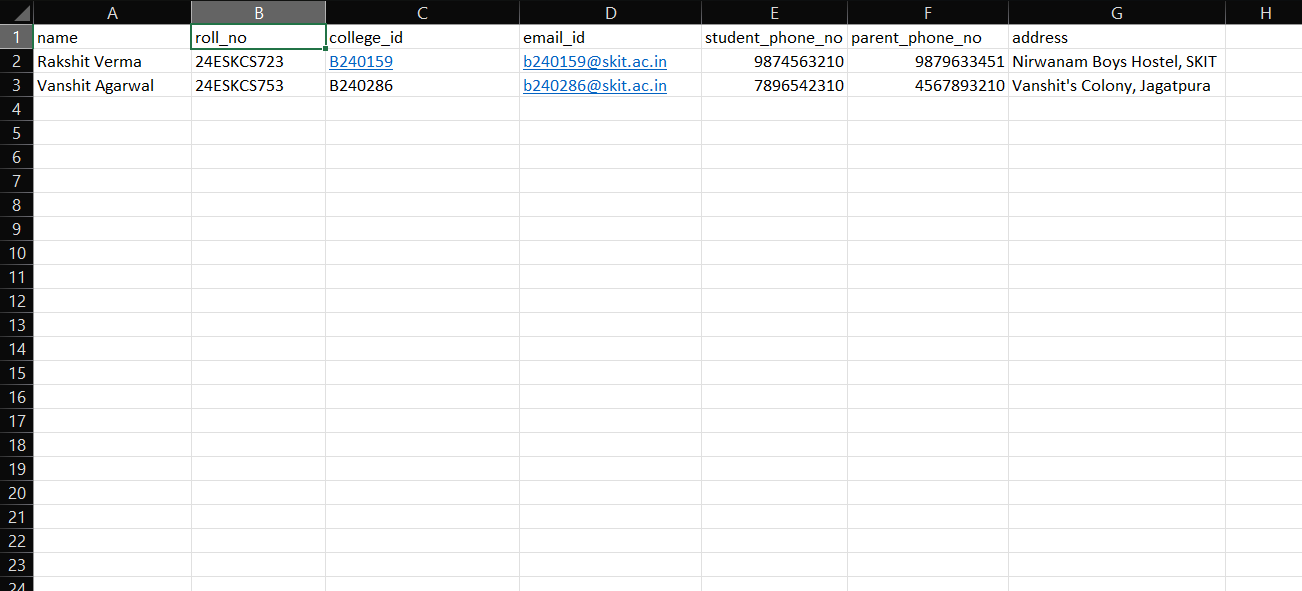
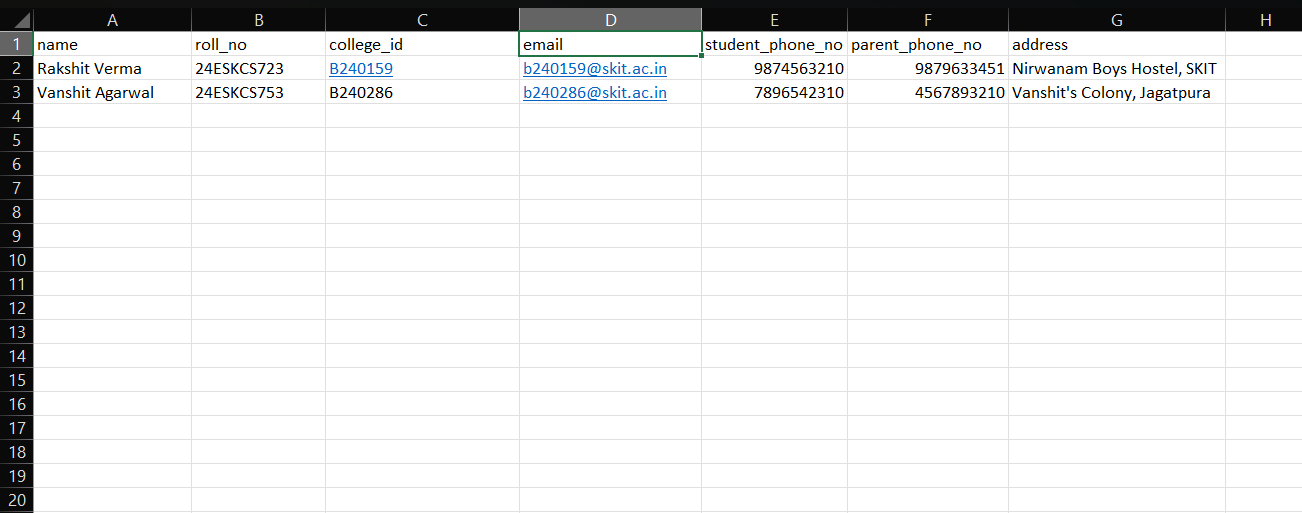
Made changes in upload excel format and updated their corresponding images respectively

Changed region(s): [[0.0, 0.0, 1.0, 1.0]]

diff --git a/firstWebsite/views.py b/firstWebsite/views.py
@@ -405,9 +405,9 @@ def upload_excel(request, pk):
             columns=imported_data.headers
         )
         if pk == 0:
-
+            df.columns = df.columns.str.lower().str.replace(' ', '_').str.strip()
             for data in imported_data.dict:
-                value = Student_Directory(name=data['name'],roll_no=data['roll_no'],college_id=data['college_id'],email=data['email_id'],student_phone_no=data['student_phone_no'],parent_phone_no=data['parent_phone_no'],address=data['address'])
+                value = Student_Directory(name=data['name'],roll_no=data['roll_no'],college_id=data['college_id'],email=data['email'],student_phone_no=data['student_phone_no'],parent_phone_no=data['parent_phone_no'],address=data['address'])
                 value.save()
 
             # messages.success(request,'We are glad to share that your excel file is uploaded successfully!')
